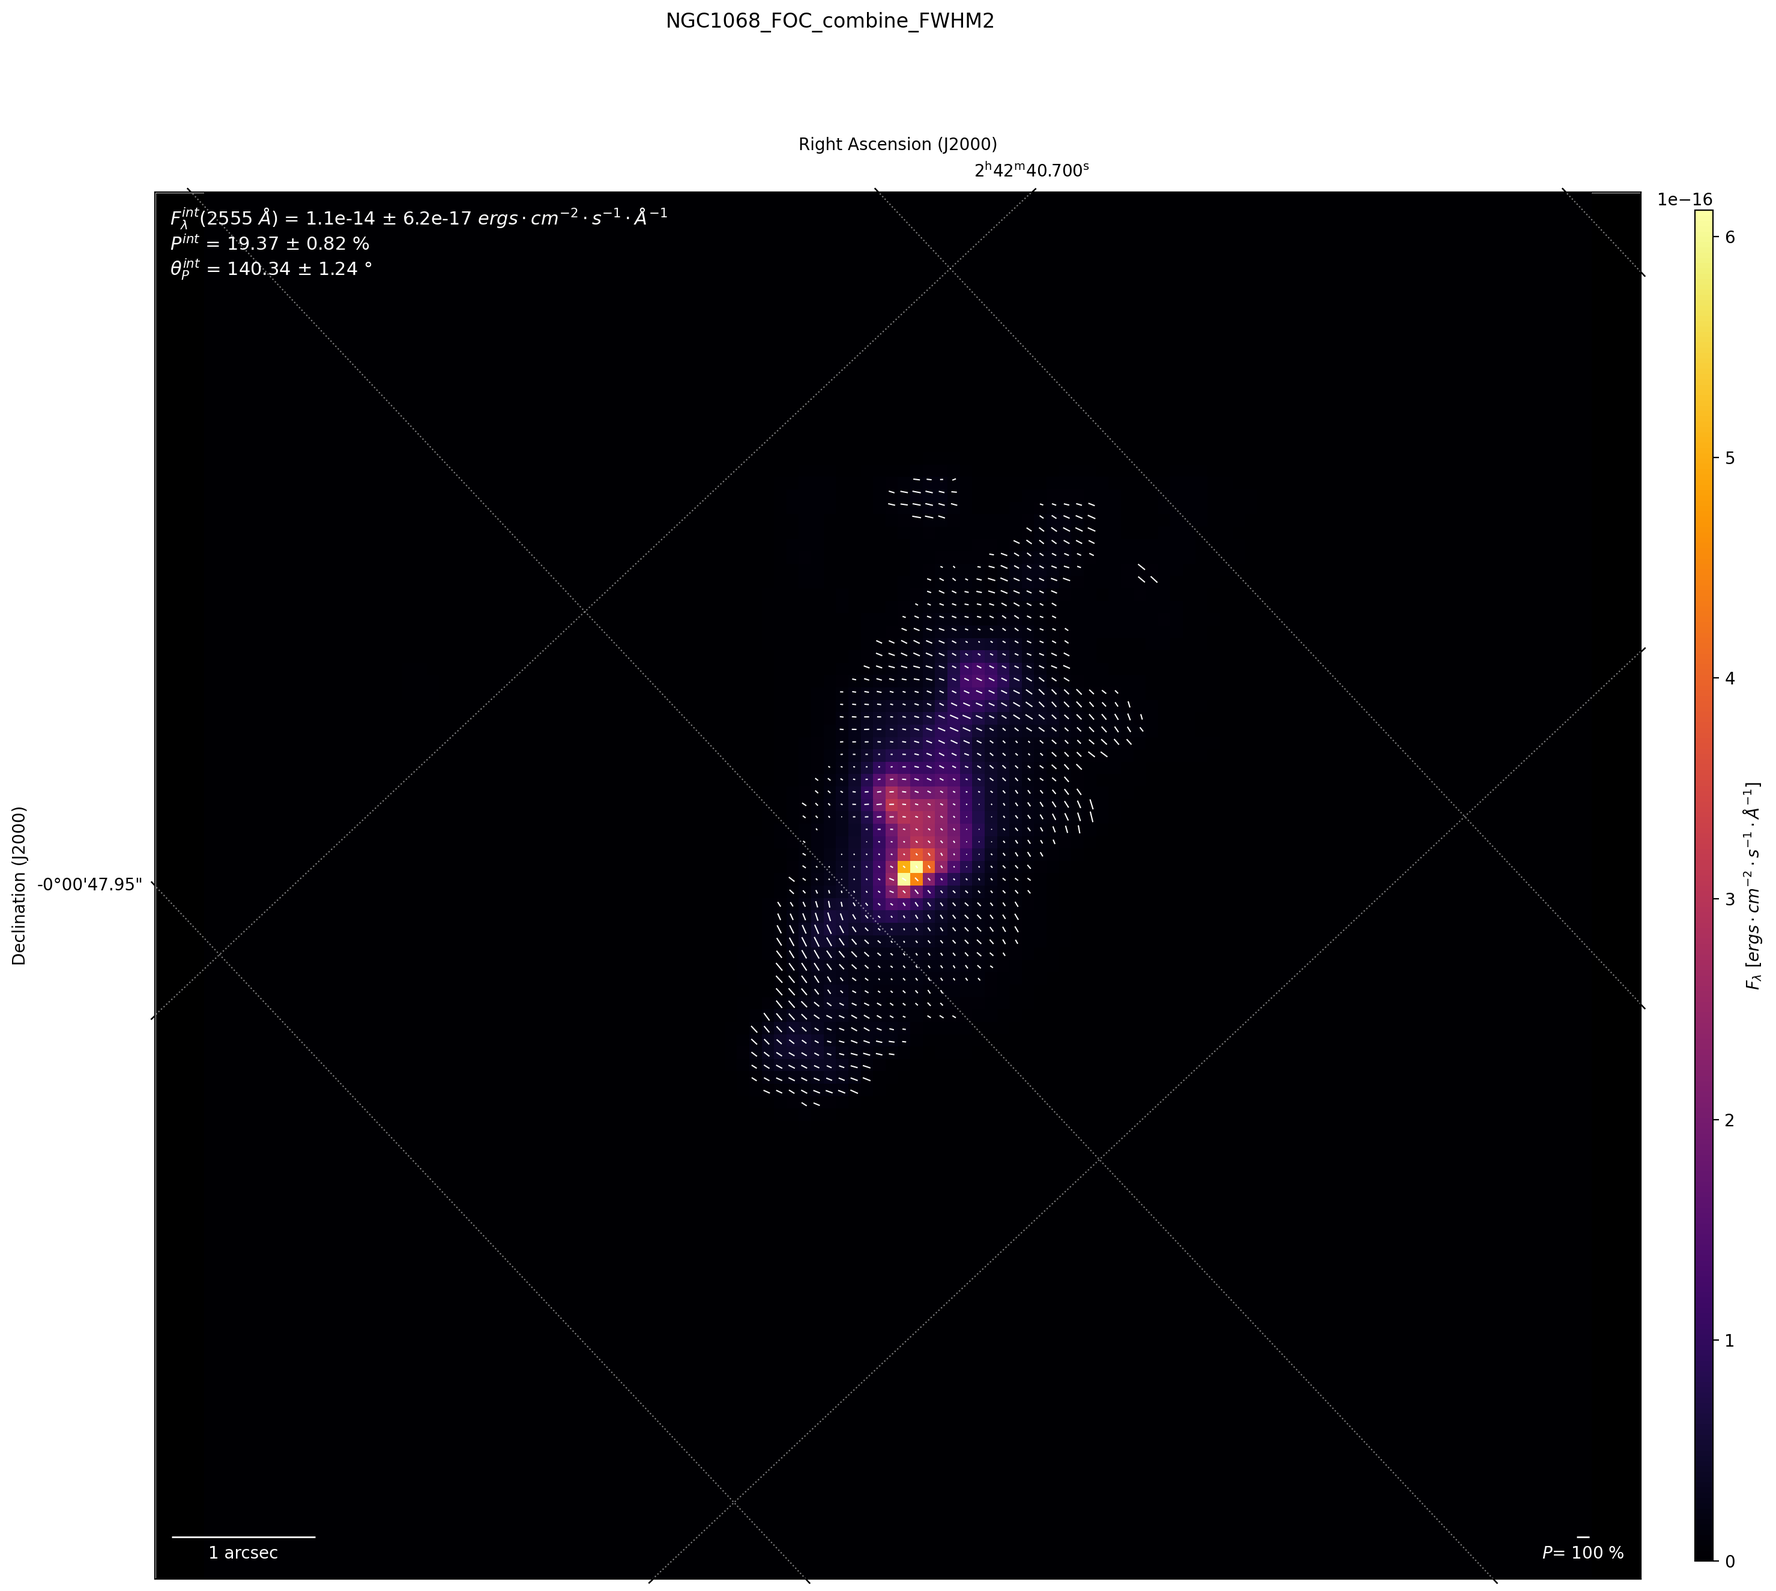
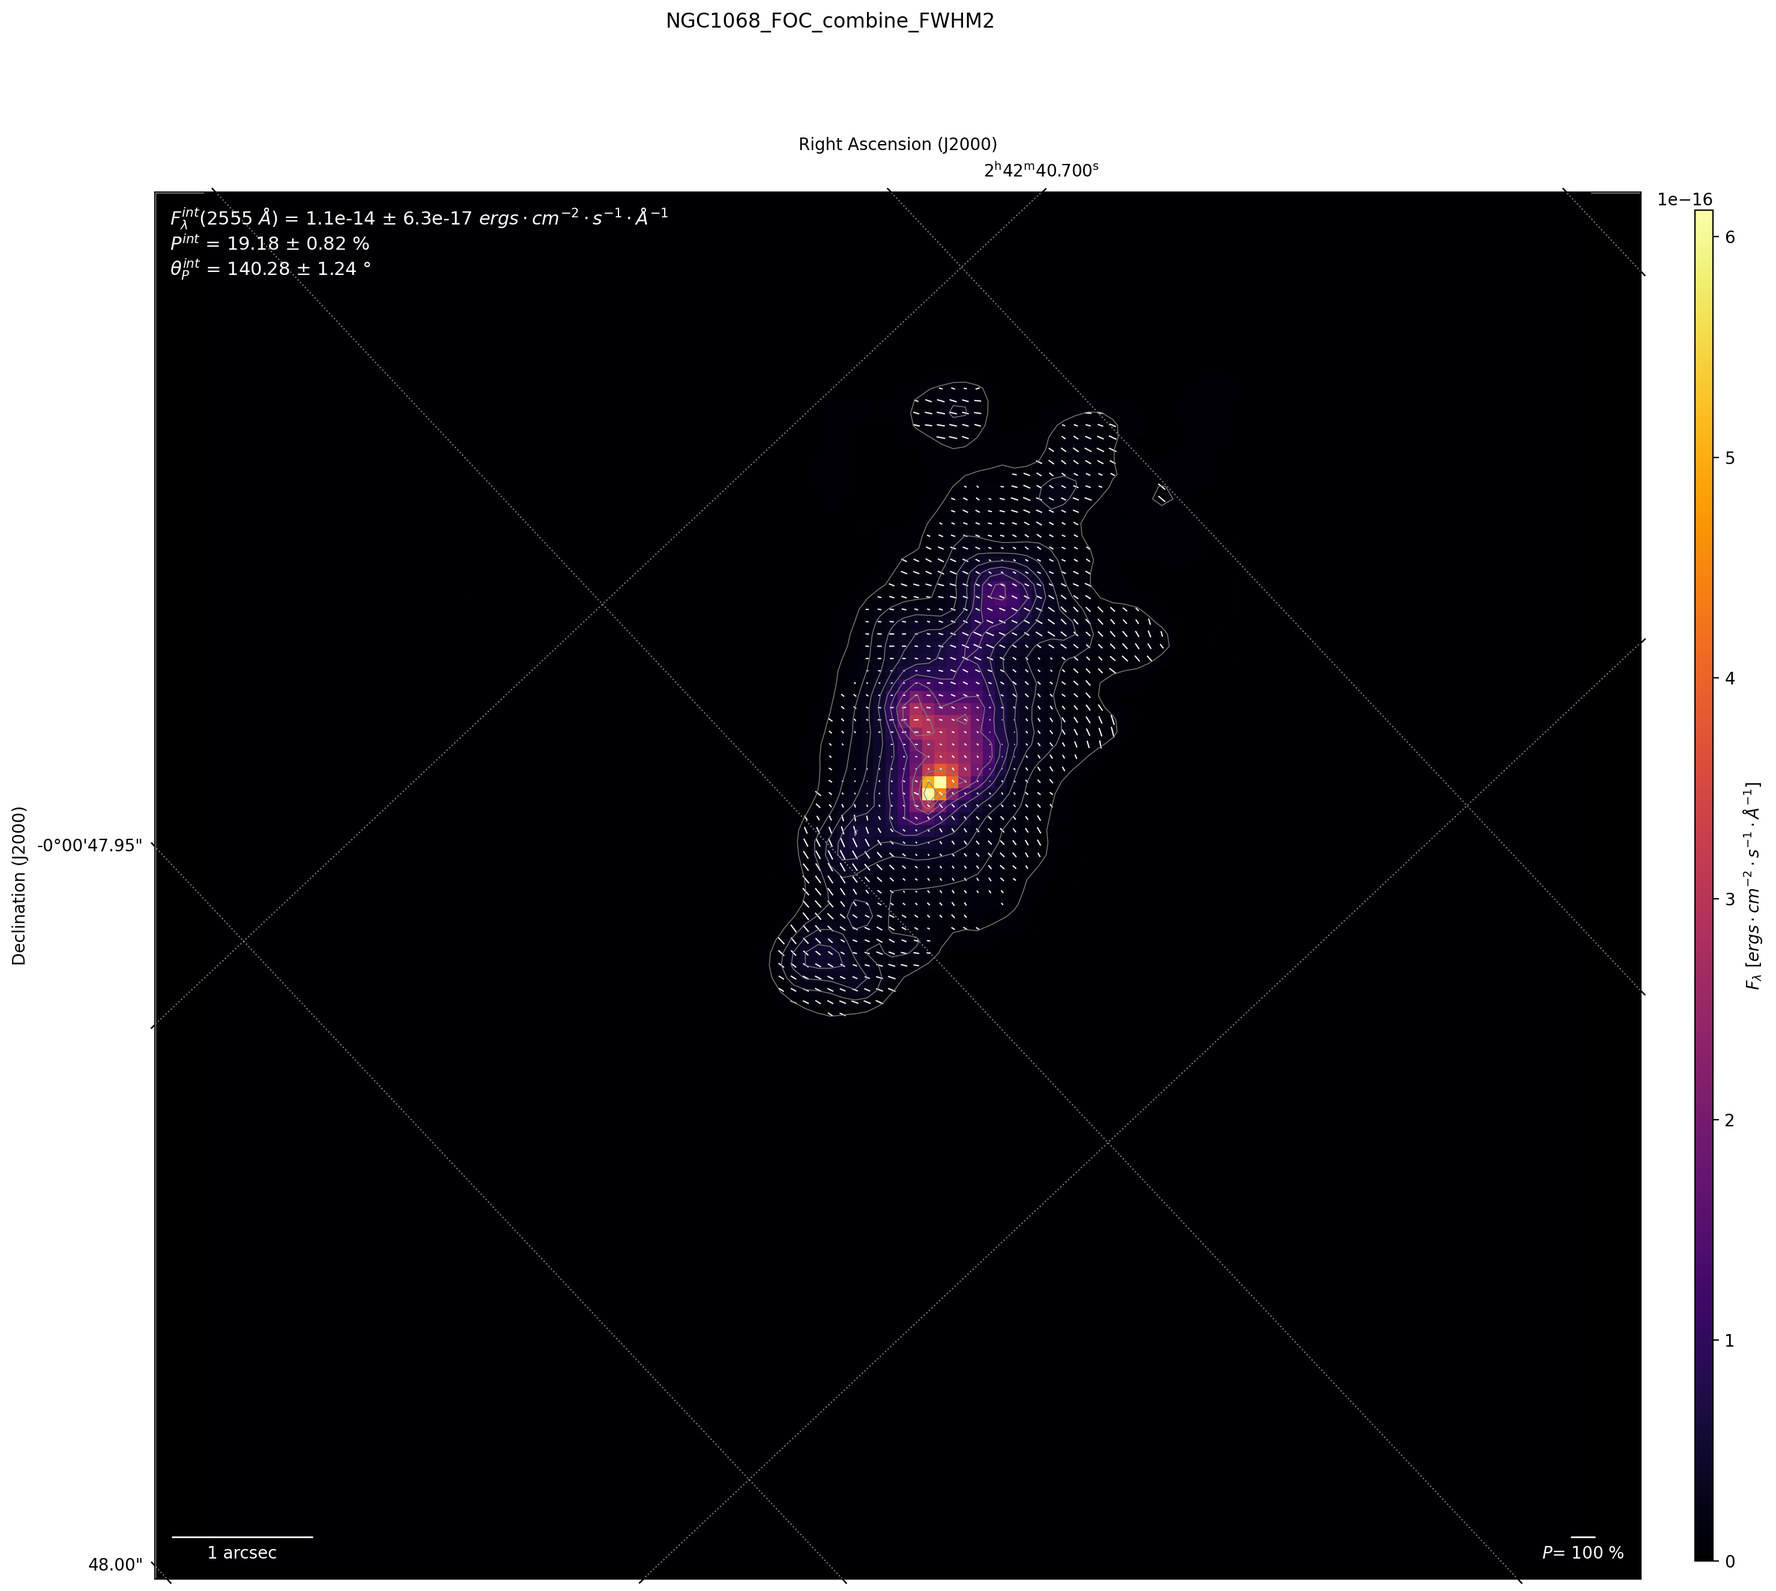
Test reduction and error from ELR propositions

diff --git a/src/lib/plots_ELR.py b/src/lib/plots_ELR.py
@@ -129,19 +129,21 @@ def polarization_map(Stokes, SNRp_cut=3., SNRi_cut=30., step_vec=1,
     stk_cov = Stokes[np.argmax([Stokes[i].header['datatype']=='IQU_cov_matrix' for i in range(len(Stokes))])]
     pol = Stokes[np.argmax([Stokes[i].header['datatype']=='Pol_deg' for i in range(len(Stokes))])]
     pol_err = Stokes[np.argmax([Stokes[i].header['datatype']=='Pol_deg_err' for i in range(len(Stokes))])]
-    #pol_err_Poisson = Stokes[np.argmax([Stokes[i].header['datatype']=='Pol_deg_err_Poisson_noise' for i in range(len(Stokes))])]
+    pol_err_Poisson = Stokes[np.argmax([Stokes[i].header['datatype']=='Pol_deg_err_Poisson_noise' for i in range(len(Stokes))])]
     pang = Stokes[np.argmax([Stokes[i].header['datatype']=='Pol_ang' for i in range(len(Stokes))])]
     pang_err = Stokes[np.argmax([Stokes[i].header['datatype']=='Pol_ang_err' for i in range(len(Stokes))])]
 
     pivot_wav = Stokes[0].header['photplam']
+    convert_flux = Stokes[0].header['photflam']/Stokes[0].header['exptot']
     wcs = WCS(Stokes[0]).deepcopy()
 
     #Compute SNR and apply cuts
     pol.data[pol.data == 0.] = np.nan
-    SNRp = pol.data/pol_err.data
-    #SNRp = pol.data/pol_err_Poisson.data
+    #SNRp = pol.data/pol_err.data
+    SNRp = pol.data/pol_err_Poisson.data
     pol.data[SNRp < SNRp_cut] = np.nan
-    SNRi = stkI.data/np.sqrt(stk_cov.data[0,0])
+    #SNRi = stkI.data/np.sqrt(stk_cov.data[0,0])
+    SNRi = stkI.data/np.std(stkI.data[0:10,0:10])
     pol.data[SNRi < SNRi_cut] = np.nan
 
     mask = (SNRp < SNRp_cut) * (SNRi < SNRi_cut)
@@ -162,10 +164,10 @@ def polarization_map(Stokes, SNRp_cut=3., SNRi_cut=30., step_vec=1,
 
     if display is None:
         # If no display selected, show intensity map
-        vmin, vmax = 0., np.max(stkI.data[stkI.data > 0.])
-        im = ax.imshow(stkI.data,extent=[-stkI.data.shape[1]/2.,stkI.data.shape[1]/2.,-stkI.data.shape[0]/2.,stkI.data.shape[0]/2.], vmin=vmin, vmax=vmax, aspect='auto', cmap='inferno', alpha=1.)
+        vmin, vmax = 0., np.max(stkI.data[stkI.data > 0.]*convert_flux)
+        im = ax.imshow(stkI.data*convert_flux,extent=[-stkI.data.shape[1]/2.,stkI.data.shape[1]/2.,-stkI.data.shape[0]/2.,stkI.data.shape[0]/2.], vmin=vmin, vmax=vmax, aspect='auto', cmap='inferno', alpha=1.)
         cbar = plt.colorbar(im, cax=cbar_ax, label=r"$F_{\lambda}$ [$ergs \cdot cm^{-2} \cdot s^{-1} \cdot \AA^{-1}$]")
-        levelsI = np.linspace(SNRi_cut, np.max(SNRi[SNRi > 0.]), 10)
+        levelsI = np.linspace(SNRi_cut, SNRi.max(), 10)
         cont = ax.contour(SNRi, extent=[-SNRi.shape[1]/2.,SNRi.shape[1]/2.,-SNRi.shape[0]/2.,SNRi.shape[0]/2.], levels=levelsI, colors='grey', linewidths=0.5)
     elif display.lower() in ['p','pol','pol_deg']:
         # Display polarization degree map
@@ -179,10 +181,10 @@ def polarization_map(Stokes, SNRp_cut=3., SNRi_cut=30., step_vec=1,
         cbar = plt.colorbar(im, cax=cbar_ax, label=r"$\sigma_P$ [%]")
     elif display.lower() in ['snr','snri']:
         # Display I_stokes signal-to-noise map
-        vmin, vmax = 0., np.max(SNRi[SNRi > 0.])
+        vmin, vmax = 0., SNRi.max()
         im = ax.imshow(SNRi, extent=[-SNRi.shape[1]/2.,SNRi.shape[1]/2.,-SNRi.shape[0]/2.,SNRi.shape[0]/2.], vmin=vmin, vmax=vmax, aspect='auto', cmap='inferno', alpha=1.)
         cbar = plt.colorbar(im, cax=cbar_ax, label=r"$I_{Stokes}/\sigma_{I}$")
-        levelsI = np.linspace(SNRi_cut, np.max(SNRi[SNRi > 0.]), 10)
+        levelsI = np.linspace(SNRi_cut, SNRi.max(), 20)
         cont = ax.contour(SNRi, extent=[-SNRi.shape[1]/2.,SNRi.shape[1]/2.,-SNRi.shape[0]/2.,SNRi.shape[0]/2.], levels=levelsI, colors='grey', linewidths=0.5)
     elif display.lower() in ['snrp']:
         # Display polarization degree signal-to-noise map
@@ -193,11 +195,11 @@ def polarization_map(Stokes, SNRp_cut=3., SNRi_cut=30., step_vec=1,
         cont = ax.contour(SNRp, extent=[-SNRp.shape[1]/2.,SNRp.shape[1]/2.,-SNRp.shape[0]/2.,SNRp.shape[0]/2.], levels=levelsP, colors='grey', linewidths=0.5)
     else:
         # Defaults to intensity map
-        vmin, vmax = 0., np.max(stkI.data[stkI.data > 0.])
+        vmin, vmax = 0., np.max(stkI.data[stkI.data > 0.]*convert_flux)
         im = ax.imshow(stkI.data,extent=[-stkI.data.shape[1]/2.,stkI.data.shape[1]/2.,-stkI.data.shape[0]/2.,stkI.data.shape[0]/2.], vmin=vmin, vmax=vmax, aspect='auto', cmap='inferno', alpha=1.)
+        cbar = plt.colorbar(im, cax=cbar_ax, label=r"$F_{\lambda}$ [$ergs \cdot cm^{-2} \cdot s^{-1} \cdot \AA$]")
         levelsI = np.linspace(SNRi_cut, SNRi.max(), 10)
         cont = ax.contour(SNRi, extent=[-SNRi.shape[1]/2.,SNRi.shape[1]/2.,-SNRi.shape[0]/2.,SNRi.shape[0]/2.], levels=levelsI, colors='grey', linewidths=0.5)
-        cbar = plt.colorbar(im, cax=cbar_ax, label=r"$F_{\lambda}$ [$ergs \cdot cm^{-2} \cdot s^{-1} \cdot \AA$]")
 
     px_size = wcs.wcs.get_cdelt()[0]
     px_sc = AnchoredSizeBar(ax.transData, 1./px_size, '1 arcsec', 3, pad=0.5, sep=5, borderpad=0.5, frameon=False, size_vertical=0.005, color='w')
@@ -221,12 +223,12 @@ def polarization_map(Stokes, SNRp_cut=3., SNRi_cut=30., step_vec=1,
     QU_int_err = np.sqrt(np.sum(stk_cov.data[1,2][mask]**2))
 
     P_int = np.sqrt(Q_int**2+U_int**2)/I_int*100.
-    P_int_err = (100./I_int)*np.sqrt((Q_int**2*Q_int_err**2 + U_int**2*U_int_err**2 + 2.*Q_int*U_int*QU_int_err)/(Q_int**2 + U_int**2) + ((Q_int/I_int)**2 + (U_int/I_int)**2)*I_int_err**2 - 2.*(Q_int/I_int)*IQ_int_err - 2.*(U_int/I_int)*IU_int_err)
+    P_int_err = np.sqrt(2.)*(I_int)**(-0.5)*100.#(100./I_int)*np.sqrt((Q_int**2*Q_int_err**2 + U_int**2*U_int_err**2 + 2.*Q_int*U_int*QU_int_err)/(Q_int**2 + U_int**2) + ((Q_int/I_int)**2 + (U_int/I_int)**2)*I_int_err**2 - 2.*(Q_int/I_int)*IQ_int_err - 2.*(U_int/I_int)*IU_int_err)
 
     PA_int = (90./np.pi)*np.arctan2(U_int,Q_int)+90.
-    PA_int_err = (90./(np.pi*(Q_int**2 + U_int**2)))*np.sqrt(U_int**2*Q_int_err**2 + Q_int**2*U_int_err**2 - 2.*Q_int*U_int*QU_int_err)
+    PA_int_err = P_int_err/(P_int)*180./np.pi#(90./(np.pi*(Q_int**2 + U_int**2)))*np.sqrt(U_int**2*Q_int_err**2 + Q_int**2*U_int_err**2 - 2.*Q_int*U_int*QU_int_err)
 
-    ax.annotate(r"$F_{{\lambda}}^{{int}}$({0:.0f} $\AA$) = {1:.1e} $\pm$ {2:.1e} $ergs \cdot cm^{{-2}} \cdot s^{{-1}} \cdot \AA^{{-1}}$".format(pivot_wav,I_int,I_int_err)+"\n"+r"$P^{{int}}$ = {0:.2f} $\pm$ {1:.2f} %".format(P_int,P_int_err)+"\n"+r"$\theta_{{P}}^{{int}}$ = {0:.2f} $\pm$ {1:.2f} °".format(PA_int,PA_int_err), color='white', fontsize=11, xy=(0.01, 0.94), xycoords='axes fraction')
+    ax.annotate(r"$F_{{\lambda}}^{{int}}$({0:.0f} $\AA$) = {1:.1e} $\pm$ {2:.1e} $ergs \cdot cm^{{-2}} \cdot s^{{-1}} \cdot \AA^{{-1}}$".format(pivot_wav,I_int*convert_flux,I_int_err*convert_flux)+"\n"+r"$P^{{int}}$ = {0:.2f} $\pm$ {1:.2f} %".format(P_int,P_int_err)+"\n"+r"$\theta_{{P}}^{{int}}$ = {0:.2f} $\pm$ {1:.2f} °".format(PA_int,PA_int_err), color='white', fontsize=11, xy=(0.01, 0.94), xycoords='axes fraction')
 
     ax.coords.grid(True, color='white', ls='dotted', alpha=0.5)
     ax.coords[0].set_axislabel('Right Ascension (J2000)')

diff --git a/src/lib/reduction_ELR.py b/src/lib/reduction_ELR.py
@@ -428,7 +428,7 @@ def get_error(data_array, sub_shape=(15,15), display=False, headers=None,
         #error_array[i] *= np.std(sub_image)    # Previously computed using standard deviation over the background
         error_array[i] *= np.sqrt(np.sum(sub_image**2)/sub_image.size)
         background[i] = sub_image.sum()
-        data_array[i] = np.abs(data_array[i] - sub_image.mean())
+        #data_array[i] = np.abs(data_array[i] - sub_image.mean())
 
     if display:
 
@@ -682,7 +682,9 @@ def align_data(data_array, error_array=None, upsample_factor=1., ref_data=None,
     shape = data_array.shape
     res_shape = int(np.ceil(np.sqrt(2)*np.max(shape[1:])))
     rescaled_image = np.ones((shape[0],res_shape,res_shape))
+    cropped_image = np.ones(shape)
     rescaled_error = np.ones((shape[0],res_shape,res_shape))
+    cropped_error = np.ones(shape)
     res_center = (np.array(rescaled_image.shape[1:])/2).astype(int)
 
     shifts, errors = [], []
@@ -704,6 +706,9 @@ def align_data(data_array, error_array=None, upsample_factor=1., ref_data=None,
         rescaled_image[i] = sc_shift(rescaled_image[i], shift, cval=0.1*background[i])
         rescaled_error[i] = sc_shift(rescaled_error[i], shift, cval=background[i])
 
+        cropped_image[i] = rescaled_image[i,res_center[0]-int(shape[1]/2):res_center[0]+int(shape[1]/2),res_center[1]-int(shape[2]/2):res_center[1]+int(shape[2]/2)]
+        cropped_error[i] = rescaled_error[i,res_center[0]-int(shape[1]/2):res_center[0]+int(shape[1]/2),res_center[1]-int(shape[2]/2):res_center[1]+int(shape[2]/2)]
+
         shifts.append(shift)
         errors.append(error)
 
@@ -711,9 +716,9 @@ def align_data(data_array, error_array=None, upsample_factor=1., ref_data=None,
     errors = np.array(errors)
 
     if return_shifts:
-        return rescaled_image, rescaled_error, shifts, errors
+        return cropped_image, cropped_error, shifts, errors
     else:
-        return rescaled_image, rescaled_error
+        return cropped_image, cropped_error
 
 
 def smooth_data(data_array, error_array, headers, FWHM=1., scale='pixel',
@@ -903,26 +908,26 @@ def polarizer_avg(data_array, error_array, headers, FWHM=None, scale='pixel',
                     FWHM=FWHM, scale=scale, smoothing=smoothing)
 
         else:
-            # Average on each polarization filter.
-            pol0 = pol0_array.mean(axis=0)
-            pol60 = pol60_array.mean(axis=0)
-            pol120 = pol120_array.mean(axis=0)
-            pol_array = np.array([pol0, pol60, pol120])
+            if not(FWHM is None):
+                # Smooth by convoluting with a gaussian each polX image.
+                pol0, err0 = smooth_data(pol0_array, err0_array, headers0,
+                        FWHM=FWHM, scale=scale)
+                pol60, err60 = smooth_data(pol60_array, err60_array, headers60,
+                        FWHM=FWHM, scale=scale)
+                pol120, err120 = smooth_data(pol120_array, err120_array, headers120,
+                        FWHM=FWHM, scale=scale)
+
+            # Sum on each polarization filter.
+            pol0 = pol0.sum(axis=0)
+            pol60 = pol60.sum(axis=0)
+            pol120 = pol120.sum(axis=0)
 
             # Propagate uncertainties quadratically
             err0 = np.mean(err0_array,axis=0)/np.sqrt(err0_array.shape[0])
             err60 = np.mean(err60_array,axis=0)/np.sqrt(err60_array.shape[0])
             err120 = np.mean(err120_array,axis=0)/np.sqrt(err120_array.shape[0])
-            polerr_array = np.array([err0, err60, err120])
 
             headers_array = headers0 + headers60 + headers120
-            if not(FWHM is None):
-                # Smooth by convoluting with a gaussian each polX image.
-                pol_array, polerr_array = smooth_data(pol_array, polerr_array,
-                        headers_array, FWHM=FWHM, scale=scale)
-                pol0, pol60, pol120 = pol_array
-                err0, err60, err120 = polerr_array
-
         # Get image shape
         shape = pol0.shape
 
@@ -1086,7 +1091,7 @@ def compute_pol(I_stokes, Q_stokes, U_stokes, Stokes_cov, headers):
     N_obs = I_stokes/np.array([header['photflam'] for header in headers]).mean()*exp_tot
 
     #Errors on P, PA supposing Poisson noise
-    s_P_P = np.sqrt(2.)*(N_obs)**(-0.5)*100.
+    s_P_P = np.sqrt(2.)*(I_stokes)**(-0.5)*100.
     s_PA_P = s_P_P/(2.*P/100.)*180./np.pi
 
     return P, debiased_P, s_P, s_P_P, PA, s_PA, s_PA_P

diff --git a/src/FOC_reduction2_ELR.py b/src/FOC_reduction2_ELR.py
@@ -9,8 +9,8 @@ import sys
 import numpy as np
 import copy
 import lib.fits as proj_fits        #Functions to handle fits files
-import lib.reduction as proj_red    #Functions used in reduction pipeline
-import lib.plots as proj_plots      #Functions for plotting data
+import lib.reduction_ELR as proj_red    #Functions used in reduction pipeline
+import lib.plots_ELR as proj_plots      #Functions for plotting data
 
 
 def main():
@@ -77,32 +77,32 @@ def main():
     # Data binning
     rebin = True
     if rebin:
-        pxsize = 0.1
-        px_scale = 'arcsec'         #pixel or arcsec
-        rebin_operation = 'sum'     #sum or average
+        pxsize = 8
+        px_scale = 'pixel'         #pixel or arcsec
+        rebin_operation = 'average'     #sum or average
     # Alignement
     align_center = 'image'        #If None will align image to image center
     display_data = False
     # Smoothing
-    smoothing_function = 'combine'  #gaussian or combine
-    smoothing_FWHM = 0.1           #If None, no smoothing is done
-    smoothing_scale = 'arcsec'       #pixel or arcsec
+    smoothing_function = 'gaussian'  #gaussian or combine
+    smoothing_FWHM = 1           #If None, no smoothing is done
+    smoothing_scale = 'pixel'       #pixel or arcsec
     # Rotation
     rotate = False                  #rotation to North convention can give erroneous results
     rotate_library = 'scipy'        #scipy or pillow
     # Polarization map output
     figname = 'NGC1068_FOC'         #target/intrument name
-    figtype = '_combine_FWHM010'    #additionnal informations
+    figtype = '_ELR_same_param_same_op_sP100'    #additionnal informations
     SNRp_cut = 3    #P measurments with SNR>3
-    SNRi_cut = 30   #I measurments with SNR>30, which implies an uncertainty in P of 4.7%.
+    SNRi_cut = 4   #I measurments with SNR>30, which implies an uncertainty in P of 4.7%.
     step_vec = 1    #plot all vectors in the array. if step_vec = 2, then every other vector will be plotted
 
     ##### Pipeline start
     ## Step 1:
     # Get data from fits files and translate to flux in erg/cm²/s/Angstrom.
-    data_array, headers = proj_fits.get_obs_data(infiles, data_folder=data_folder, compute_flux=True)
+    data_array, headers = proj_fits.get_obs_data(infiles, data_folder=data_folder, compute_flux=False)
     # Crop data to remove outside blank margins.
-    data_array, error_array = proj_red.crop_array(data_array, step=5, null_val=0., inside=True)
+    #data_array, error_array = proj_red.crop_array(data_array, step=5, null_val=0., inside=True)
     # Deconvolve data using Richardson-Lucy iterative algorithm with a gaussian PSF of given FWHM.
     if deconvolve:
         data_array = proj_red.deconvolve_array(data_array, headers, psf=psf, FWHM=psf_FWHM, scale=psf_scale, shape=psf_shape, iterations=iterations)

diff --git a/src/lib/fits.py b/src/lib/fits.py
@@ -50,7 +50,7 @@ def get_obs_data(infiles, data_folder="", compute_flux=False):
 
 
 def save_Stokes(I_stokes, Q_stokes, U_stokes, Stokes_cov, P, debiased_P, s_P,
-        s_P_P, PA, s_PA, s_PA_P, ref_header, filename, data_folder="",
+        s_P_P, PA, s_PA, s_PA_P, headers, filename, data_folder="",
         return_hdul=False):
     """
     Save computed polarimetry parameters to a single fits file,
@@ -64,9 +64,9 @@ def save_Stokes(I_stokes, Q_stokes, U_stokes, Stokes_cov, P, debiased_P, s_P,
         its error propagated and assuming Poisson noise.
     Stokes_cov : numpy.ndarray
         Covariance matrix of the Stokes parameters I, Q, U.
-    ref_header : astropy.io.fits.header.Header
+    headers : header list
         Header of reference some keywords will be copied from (CRVAL, CDELT,
-        INSTRUME, PROPOSID, TARGNAME, ORIENTAT).
+        INSTRUME, PROPOSID, TARGNAME, ORIENTAT, EXPTOT).
     filename : str
         Name that will be given to the file on writing (will appear in header).
     data_folder : str, optional
@@ -85,6 +85,8 @@ def save_Stokes(I_stokes, Q_stokes, U_stokes, Stokes_cov, P, debiased_P, s_P,
         Only returned if return_hdul is True.
     """
     #Create new WCS object given the modified images
+    ref_header = headers[0]
+    exp_tot = np.array([header['exptime'] for header in headers]).sum()
     new_wcs = wcs.WCS(ref_header).deepcopy()
     if new_wcs.wcs.has_cd():
         del new_wcs.wcs.cd
@@ -106,6 +108,8 @@ def save_Stokes(I_stokes, Q_stokes, U_stokes, Stokes_cov, P, debiased_P, s_P,
     header = new_wcs.to_header()
     header['instrume'] = (ref_header['instrume'], 'Instrument from which data is reduced')
     header['photplam'] = (ref_header['photplam'], 'Pivot Wavelength')
+    header['photflam'] = (ref_header['photflam'], 'Inverse Sensitivity in DN/sec/cm**2/Angst')
+    header['exptot'] = (exp_tot, 'Total exposure time in sec')
     header['proposid'] = (ref_header['proposid'], 'PEP proposal identifier for observation')
     header['targname'] = (ref_header['targname'], 'Target name')
     header['orientat'] = (ref_header['orientat'], 'Angle between North and the y-axis of the image')

diff --git a/src/FOC_reduction_ELR.py b/src/FOC_reduction_ELR.py
@@ -96,7 +96,7 @@ infiles = {'data_folder':'../data/NGC1068_x274020/',\
             'filenames':['x274020at.c0f.fits','x274020bt.c0f.fits','x274020ct.c0f.fits',\
                         'x274020dt.c0f.fits','x274020et.c0f.fits','x274020ft.c0f.fits','x274020gt.c0f.fits',\
                         'x274020ht.c0f.fits','x274020it.c0f.fits']}
- 
+
 config = {'conserve_flux':True,'upsample_factor':1,\
             'downsample_factor':8}
 
